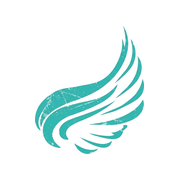
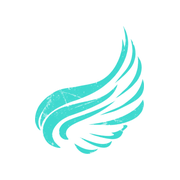
ファビコンを白丸+明るいティールの羽根に変更

diff --git a/koukoku.html b/koukoku.html
@@ -11,9 +11,9 @@
 <meta property="og:url" content="https://almirainc.com/koukoku.html">
 <meta property="og:image" content="https://almirainc.com/ogp.png">
 <meta name="twitter:card" content="summary_large_image">
-<link rel="icon" type="image/png" sizes="32x32" href="favicon-32.png">
-<link rel="icon" type="image/png" sizes="16x16" href="favicon-16.png">
-<link rel="apple-touch-icon" href="apple-touch-icon.png">
+<link rel="icon" type="image/png" sizes="32x32" href="favicon-32.png?v=2">
+<link rel="icon" type="image/png" sizes="16x16" href="favicon-16.png?v=2">
+<link rel="apple-touch-icon" href="apple-touch-icon.png?v=2">
 <link rel="preconnect" href="https://fonts.googleapis.com">
 <link rel="preconnect" href="https://fonts.gstatic.com" crossorigin>
 <link href="https://fonts.googleapis.com/css2?family=Noto+Sans+JP:wght@400;500;700;900&display=swap" rel="stylesheet">

diff --git a/index.html b/index.html
@@ -11,9 +11,9 @@
 <meta property="og:url" content="https://almirainc.com/">
 <meta property="og:image" content="https://almirainc.com/ogp.png">
 <meta name="twitter:card" content="summary_large_image">
-<link rel="icon" type="image/png" sizes="32x32" href="favicon-32.png">
-<link rel="icon" type="image/png" sizes="16x16" href="favicon-16.png">
-<link rel="apple-touch-icon" href="apple-touch-icon.png">
+<link rel="icon" type="image/png" sizes="32x32" href="favicon-32.png?v=2">
+<link rel="icon" type="image/png" sizes="16x16" href="favicon-16.png?v=2">
+<link rel="apple-touch-icon" href="apple-touch-icon.png?v=2">
 <link rel="preconnect" href="https://fonts.googleapis.com">
 <link rel="preconnect" href="https://fonts.gstatic.com" crossorigin>
 <link href="https://fonts.googleapis.com/css2?family=Noto+Sans+JP:wght@400;500;700;900&display=swap" rel="stylesheet">
